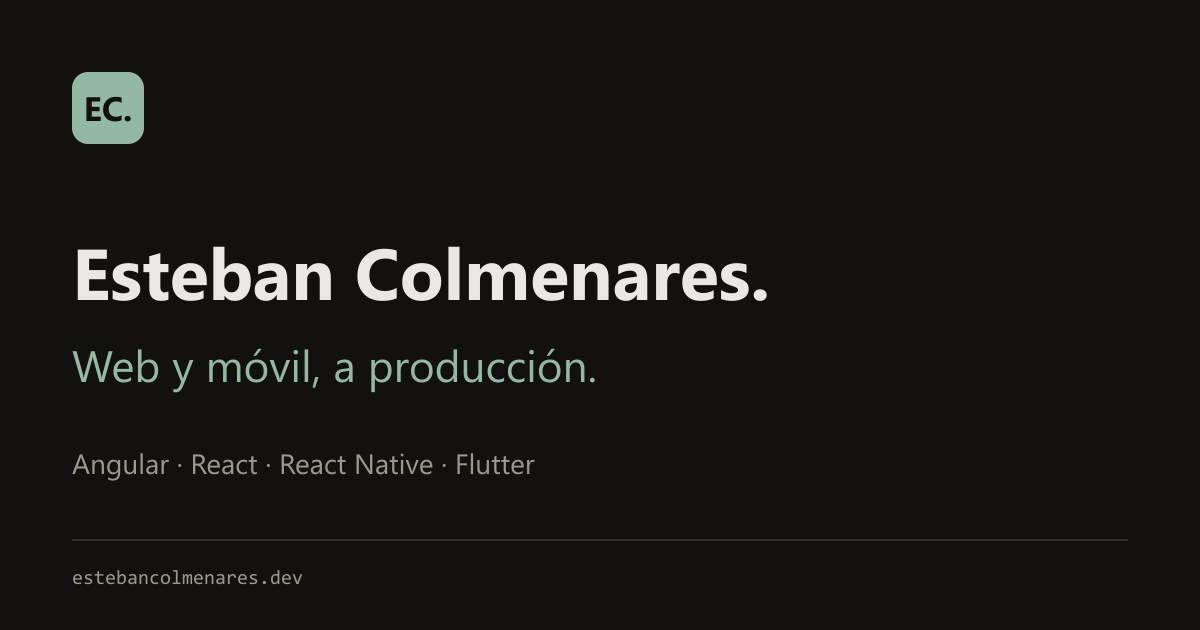
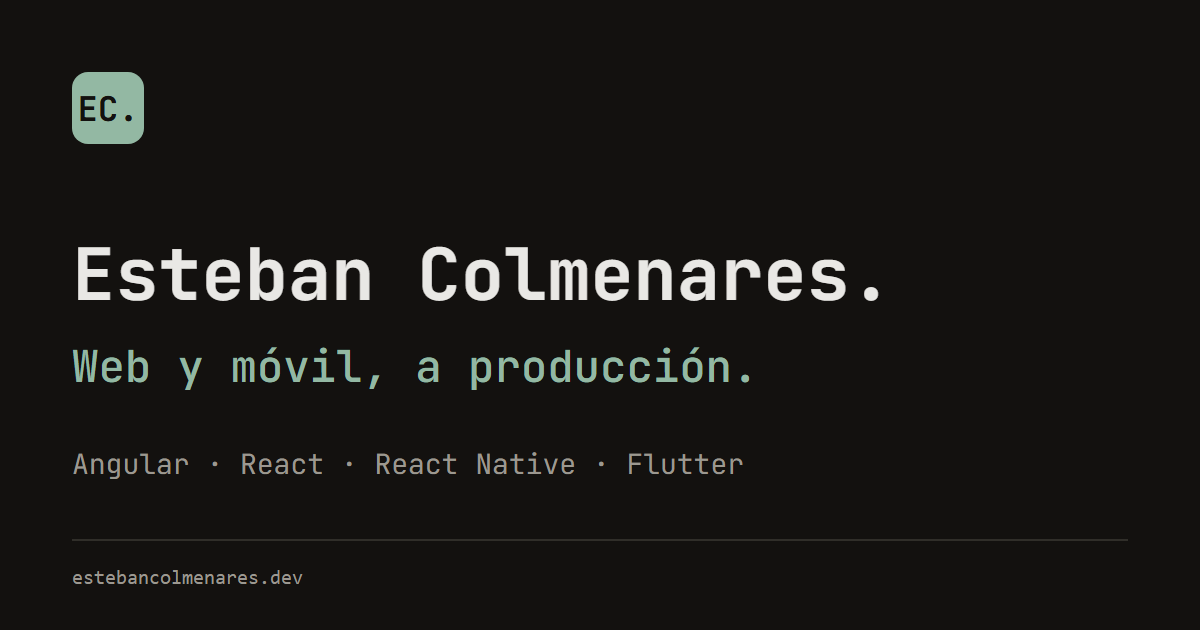
feat(ui): Refresh design system and page layout

diff --git a/src/styles/global.css b/src/styles/global.css
@@ -146,7 +146,7 @@
     }
 
   .nav-link {
-    @apply text-sm text-muted-foreground underline underline-offset-4 decoration-[1.5px] decoration-transparent transition-colors duration-150 motion-reduce:transition-none hover:text-foreground hover:decoration-primary focus-visible:rounded-md focus-visible:ring-2 focus-visible:ring-ring focus-visible:outline-none;
+    @apply text-[13px] text-muted-foreground underline underline-offset-4 decoration-[1.5px] decoration-transparent transition-colors duration-150 motion-reduce:transition-none hover:text-foreground hover:decoration-primary focus-visible:rounded-md focus-visible:ring-2 focus-visible:ring-ring focus-visible:outline-none sm:text-sm;
   }
 
   .nav-link[aria-current='true'] {
